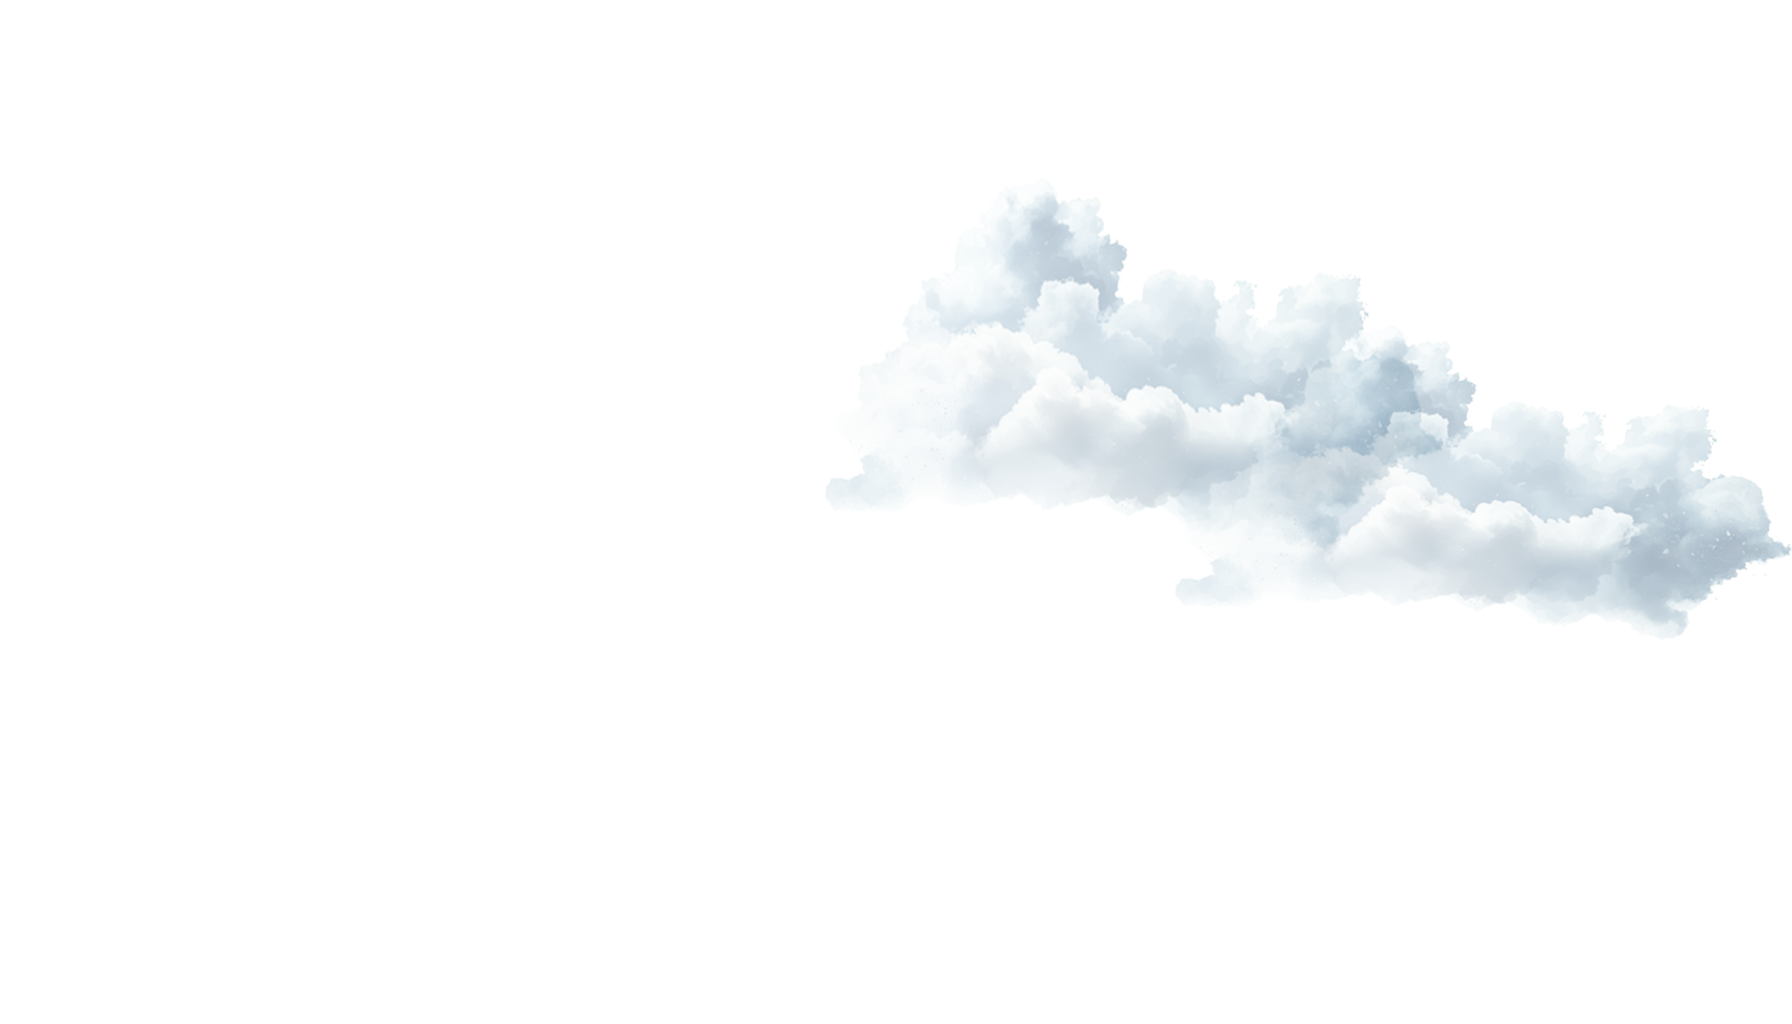
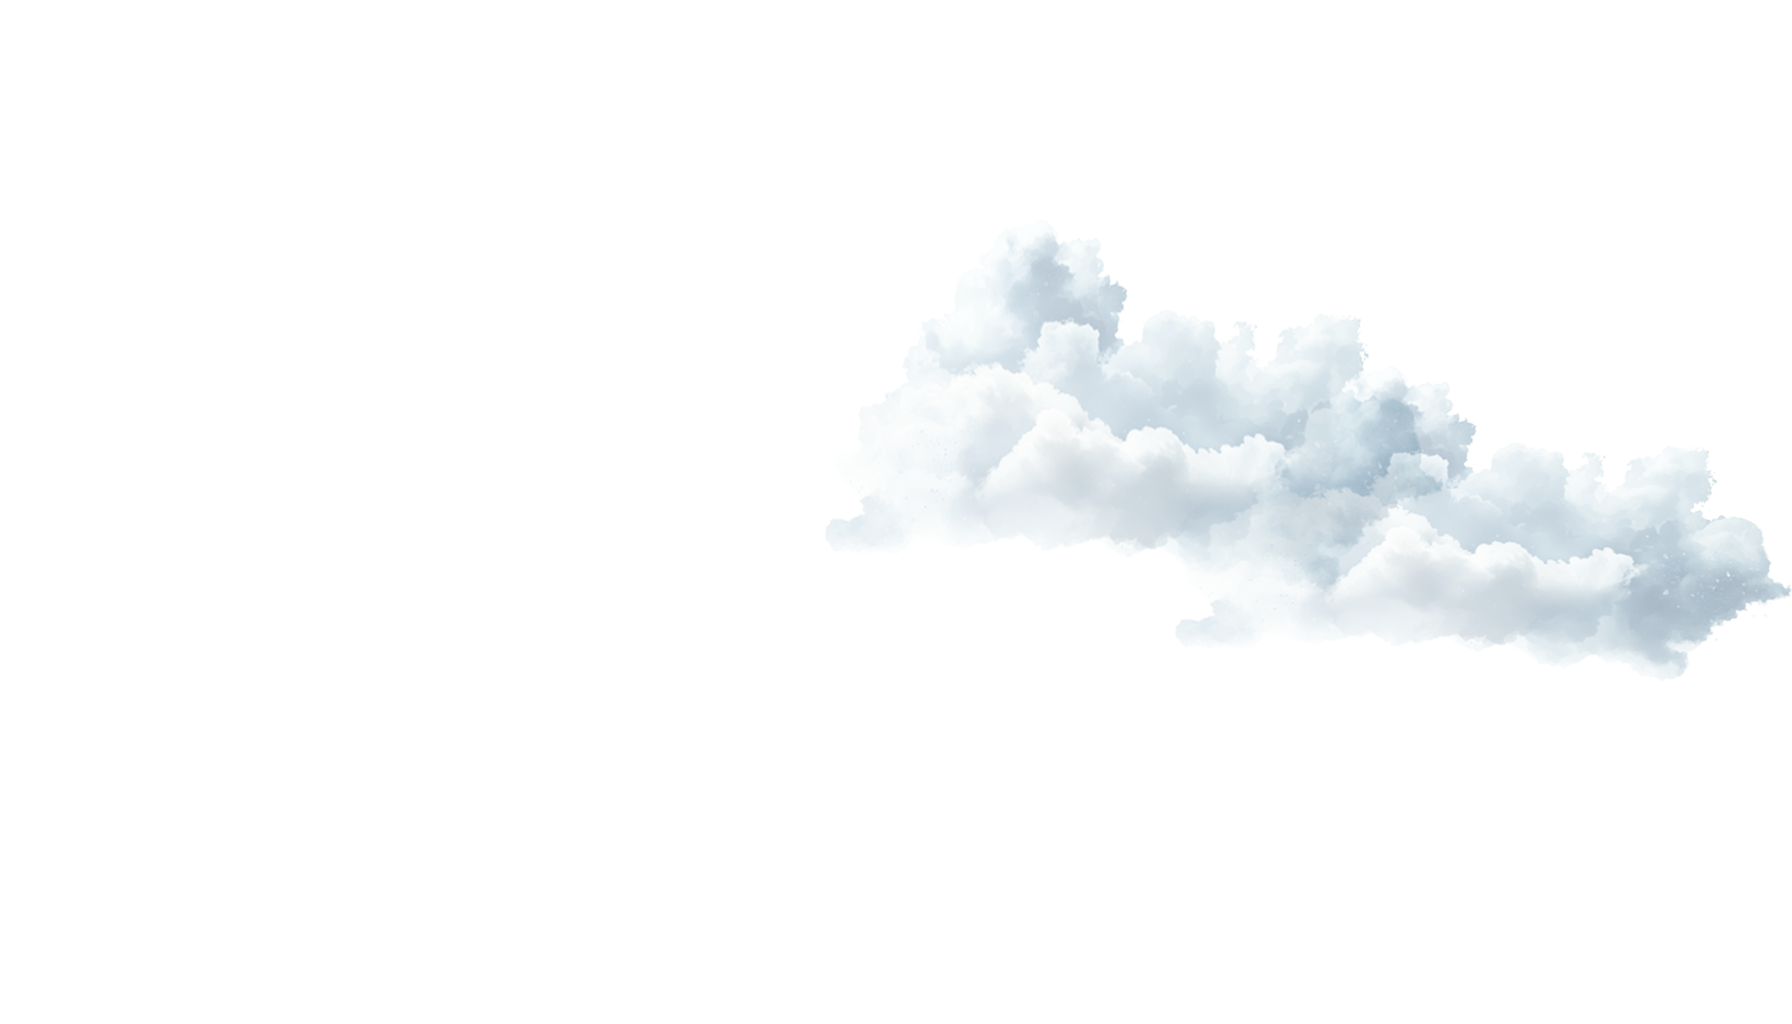
final adjustments on the dashboard and layer fixes

Changed region(s): [[0.5, 0.1875, 1.0, 0.6562], [0.6562, 0.5938, 0.6875, 0.625], [0.4688, 0.5, 0.5, 0.5312]]

diff --git a/src/components/Dashboard.jsx b/src/components/Dashboard.jsx
@@ -1,13 +1,14 @@
 import React from 'react';
-import { DeliveryIcon, WarehouseIcon, ComputerIcon, UsersIcon, MobileIcon } from '../assets/icons.jsx';
+import { DeliveryIcon, WarehouseIcon, ComputerIcon, UsersIcon, BoxIcon } from '../assets/icons.jsx';
 
 const Dashboard = () => {
   const cards = [
-    { title: 'Teslimat', description: '', url: 'http://onlineislemler.b2cargo.com:81/panel/home', icon: DeliveryIcon },
+    { title: 'Teslimat', description: '', url: 'http://onlineislemler.b2cargo.com:81/panel/home', icon: BoxIcon },
     { title: 'Depo', description: '', url: 'http://onlineislemler.b2cargo.com:81/panel/whouse', icon: WarehouseIcon },
+    { title: 'Personel', description: '', url: 'http://onlineislemler.b2cargo.com:90/staffhome', icon: UsersIcon },
+    { title: 'Kargo Dağıtım', description: '', url: 'https://mobil.b2cargo.com/login', icon: DeliveryIcon },
     { title: 'İnteraktif Depo', description: '', url: 'https://b2interactive.vercel.app/', icon: ComputerIcon },
-    { title: 'Personel', description: '', url: 'https://personel.b2cargo.com/', icon: UsersIcon },
-    { title: 'Mobil', description: '', url: 'https://mobil.b2cargo.com/login', icon: MobileIcon },
+
   ];
 
   return (
@@ -18,7 +19,7 @@ const Dashboard = () => {
           textShadow: '3px 3px 5px rgba(0, 0, 0, 0.7)',
         }}
       >
-        Hoşgeldiniz!
+        Hoşgeldiniz {/* Kullanıcı adı*/}!
         <br />
         <span
           className="text-white"
@@ -26,54 +27,29 @@ const Dashboard = () => {
           Hangi modülle devam etmek istersiniz?
         </span>
       </h1>
-      <div className="grid grid-cols-1 sm:grid-cols-2 lg:grid-cols-3 xl:grid-cols-5 gap-4 lg:gap-6 w-full max-w-7xl">
+      <div className="grid grid-cols-2 lg:grid-cols-5 gap-4 lg:gap-6 w-full max-w-7xl">
         {cards.map((card, index) => (
           <a
             key={index}
             href={card.url}
-            className="group p-4 sm:p-5 lg:p-6 bg-[#070F2A] hover:bg-opacity-60 bg-opacity-30 rounded-lg border-2 border-transparent hover:border-orange-600 transition-all duration-300 flex flex-col items-center justify-between transform hover:scale-105 hover:-translate-y-1 shadow-lg hover:shadow-xl"
+            className="group p-4 lg:p-6 bg-[#070F2A] hover:bg-opacity-60 bg-opacity-30 rounded-lg border-2 border-transparent hover:border-orange-600 transition-all duration-300 flex flex-col items-center justify-between transform hover:scale-105 hover:-translate-y-1 shadow-lg hover:shadow-xl"
             style={{ animationDelay: `${index * 100}ms` }}
           >
             <div className="flex flex-col items-center">
               <card.icon
-                className="w-10 h-10 sm:w-12 sm:h-12 group-hover:text-orange-500 text-white transition-colors duration-300"
+                className="w-12 h-12 group-hover:text-orange-500 text-white transition-colors duration-300"
                 style={{
                   filter: 'drop-shadow(3px 3px 5px rgba(0, 0, 0, 0.6))', 
                 }}
               />
               <h2
-                className="text-lg sm:text-xl font-semibold text-white mb-2 group-hover:text-orange-500 transition-colors duration-300 text-center"
+                className="text-lg font-semibold text-white mb-2 group-hover:text-orange-500 transition-colors duration-300 text-center"
                 style={{
                   textShadow: '3px 3px 5px rgba(0, 0, 0, 0.6)',
                 }}
               >
                 {card.title}
               </h2>
-            </div>
-            <div className="mt-2 flex items-center text-orange-500 opacity-0 group-hover:opacity-100 transition-all duration-300 transform translate-x-[-10px] group-hover:translate-x-0">
-              <span
-                className="mr-2 font-medium"
-                style={{
-                  textShadow: '2px 2px 4px rgba(0, 0, 0, 0.6)',
-                }}
-              >
-                Giriş
-              </span>
-              <svg
-                xmlns="http://www.w3.org/2000/svg"
-                className="h-5 w-5"
-                viewBox="0 0 20 20"
-                fill="currentColor"
-                style={{
-                  filter: 'drop-shadow(2px 2px 4px rgba(0, 0, 0, 0.6))', 
-                }}
-              >
-                <path
-                  fillRule="evenodd"
-                  d="M10.293 3.293a1 1 0 011.414 0l6 6a1 1 0 010 1.414l-6 6a1 1 0 01-1.414-1.414L14.586 11H3a1 1 0 110-2h11.586l-4.293-4.293a1 1 0 010-1.414z"
-                  clipRule="evenodd"
-                />
-              </svg>
             </div>
           </a>
         ))}

diff --git a/src/components/Sidebar.jsx b/src/components/Sidebar.jsx
@@ -15,7 +15,7 @@ const Sidebar = () => {
         {/* Continue Button */}
         <a 
           href="https://www.b2cargo.com/" 
-          className="h-14 w-full bg-[#070F2A] bg-opacity-50 hover:bg-opacity-90 hover:text-orange-600 border border-[#070F2A] hover:border-orange-600 text-white py-2 rounded-lg transition-colors duration-300 text-center shadow-md hover:shadow-lg flex items-center justify-center font-semibold"
+          className="h-14 w-full text-sm bg-[#070F2A] bg-opacity-50 hover:bg-opacity-90 hover:text-orange-600 border border-[#070F2A] hover:border-orange-600 text-white py-2 rounded-lg transition-colors duration-300 text-center shadow-md hover:shadow-lg flex items-center justify-center font-semibold"
         >
           <ArrowLeft className="w-5 h-5 mr-2" />
           Kurumsal Site
@@ -24,16 +24,16 @@ const Sidebar = () => {
         {/* Online Ödeme */}
         <a 
           href="https://odeme.b2cargo.com/" 
-          className="h-14 w-full bg-[#070F2A] bg-opacity-50 hover:bg-opacity-90 hover:text-orange-600 border border-[#070F2A] hover:border-orange-600 text-white py-2 rounded-lg transition-colors duration-300 text-center shadow-md hover:shadow-lg flex items-center justify-center font-semibold"
+          className="h-14 w-full text-sm bg-[#070F2A] bg-opacity-50 hover:bg-opacity-90 hover:text-orange-600 border border-[#070F2A] hover:border-orange-600 text-white py-2 rounded-lg transition-colors duration-300 text-center shadow-md hover:shadow-lg flex items-center justify-center font-semibold"
         >
           <CreditCard className="w-5 h-5 mr-2" />
           Online Ödeme
         </a>
         
         {/* Download App Section */}
-        <div className="w-full space-y-4">
-          <p className="text-white text-center font-bold text-lg mb-4" style={{textShadow: '2px 2px 4px rgba(0, 0, 0, 0.4)'}}>B2Cargo+</p>
-          <div className="flex flex-col sm:flex-row gap-4">
+        <div className="w-full space-y-1">
+          <p className="text-white text-center font-bold text-sm" style={{textShadow: '2px 2px 4px rgba(0, 0, 0, 0.4)'}}>B2Cargo+ mobil uygulamamızı indirin:</p>
+          <div className="flex flex-col xl:flex-row gap-4">
             <a 
               href="https://apps.apple.com/tr/app/b2cargo/id1564938924" 
               target="_blank" 
@@ -42,7 +42,7 @@ const Sidebar = () => {
             >
               <Apple className="w-8 h-8 mr-2 group-hover:text-blue-400 transition-colors duration-300" />
               <div className="flex flex-col items-start">
-                <span className="font-semibold group-hover:text-blue-400 transition-colors duration-300">App Store</span>
+                <span className="font-semibold group-hover:text-blue-400 transition-colors duration-300 text-sm">App Store</span>
               </div>
             </a>
             <a 
@@ -51,9 +51,9 @@ const Sidebar = () => {
               rel="noopener noreferrer" 
               className="flex-1 bg-[#070F2A] bg-opacity-60 hover:bg-opacity-90 border border-[#070F2A] hover:border-green-400 text-white py-3 px-4 rounded-lg transition-colors duration-300 text-center shadow-md hover:shadow-lg flex items-center justify-center group"
             >
-              <PlayCircle className="w-8 h-8 mr-2 group-hover:text-green-400 transition-colors duration-300" />
+              <PlayCircle className="w-9 h-9 mr-2 group-hover:text-green-400 transition-colors duration-300" />
               <div className="flex flex-col items-start">
-                <span className="font-semibold group-hover:text-green-400 transition-colors duration-300">Google Play</span>
+                <span className="font-semibold group-hover:text-green-400 transition-colors duration-300 text-sm">Google Play</span>
               </div>
             </a>
           </div>
@@ -64,7 +64,7 @@ const Sidebar = () => {
       <div className="mt-auto pt-4">
         <div className="flex flex-col items-center max-w-md mx-auto justify-between gap-4">
           <img src={coolPartner} alt="Cool Partner" className="w-28 h-28" />
-          <div className="text-white text-sm space-y-2 lg:mb-6">
+          <div className="text-white text-xs space-y-2 lg:mb-6">
           <div className="flex items-center justify-center gap-2 hover:text-orange-600 transition duration-300 ">
               <a href="https://www.b2cargo.com/iletisim">Şikayet, Öneri ve Yardım</a>
             </div>

diff --git a/src/assets/icons.jsx b/src/assets/icons.jsx
@@ -28,10 +28,11 @@ export const UsersIcon = (props) => (
   </svg>
 );
 
-export const MobileIcon = (props) => (
+export const BoxIcon = (props) => (
   <svg xmlns="http://www.w3.org/2000/svg" viewBox="0 0 24 24" fill="currentColor" {...props}>
-    <path d="M10.5 18.75a.75.75 0 000 1.5h3a.75.75 0 000-1.5h-3z" />
-    <path fillRule="evenodd" d="M8.625.75A3.375 3.375 0 005.25 4.125v15.75a3.375 3.375 0 003.375 3.375h6.75a3.375 3.375 0 003.375-3.375V4.125A3.375 3.375 0 0015.375.75h-6.75zM7.5 4.125C7.5 3.504 8.004 3 8.625 3H9.75v.375c0 .621.504 1.125 1.125 1.125h2.25c.621 0 1.125-.504 1.125-1.125V3h1.125c.621 0 1.125.504 1.125 1.125v15.75c0 .621-.504 1.125-1.125 1.125h-6.75A1.125 1.125 0 017.5 19.875V4.125z" clipRule="evenodd" />
+    <path d="M17.5777 4.43152L15.5777 3.38197C13.8221 2.46066 12.9443 2 12 2C11.0557 2 10.1779 2.46066 8.42229 3.38197L8.10057 3.5508L17.0236 8.64967L21.0403 6.64132C20.3941 5.90949 19.3515 5.36234 17.5777 4.43152Z" />
+    <path d="M21.7484 7.96434L17.75 9.96353V13C17.75 13.4142 17.4142 13.75 17 13.75C16.5858 13.75 16.25 13.4142 16.25 13V10.7135L12.75 12.4635V21.904C13.4679 21.7252 14.2848 21.2965 15.5777 20.618L17.5777 19.5685C19.7294 18.4393 20.8052 17.8748 21.4026 16.8603C22 15.8458 22 14.5833 22 12.0585V11.9415C22 10.0489 22 8.86557 21.7484 7.96434Z" />
+    <path d="M11.25 21.904V12.4635L2.25164 7.96434C2 8.86557 2 10.0489 2 11.9415V12.0585C2 14.5833 2 15.8458 2.5974 16.8603C3.19479 17.8748 4.27062 18.4393 6.42228 19.5685L8.42229 20.618C9.71524 21.2965 10.5321 21.7252 11.25 21.904Z" />
+    <path d="M2.95969 6.64132L12 11.1615L15.4112 9.4559L6.52456 4.37785L6.42229 4.43152C4.64855 5.36234 3.6059 5.90949 2.95969 6.64132Z" />
   </svg>
 );
-

diff --git a/src/components/ParallaxScene.jsx b/src/components/ParallaxScene.jsx
@@ -28,10 +28,10 @@ const ParallaxScene = () => {
       <div className="relative w-full h-full bg-cover bg-center bg-no-repeat z-[3]" 
            style={{ backgroundImage: `url(${mountain})` }}
            data-depth="0.3" />
-       <div className="absolute scale-[0.60] w-full h-full bg-no-repeat bg-top top-0 z-[2]"
+      <div className="relative w-full h-full bg-cover bg-center bg-no-repeat z-[2]" 
            style={{ backgroundImage: `url(${cloud_1})` }}
            data-depth="0.45" />
-      <div className="absolute scale-100 w-full h-full bg-no-repeat top-0 z-[2] hidden lg:block"
+      <div className="relative w-full h-full bg-cover bg-center bg-no-repeat z-[2]" 
            style={{ backgroundImage: `url(${cloud_2})` }}
            data-depth="0.4" />  
 

diff --git a/src/index.css b/src/index.css
@@ -15,3 +15,12 @@ body, html {
     position: relative;
     overflow-x: hidden;
 }
+
+@font-face {
+    font-family: 'Ubuntu';
+    src: url('../fonts/ubuntu-regular.ttf') format('truetype');
+}
+
+body {
+    font-family: 'Ubuntu', sans-serif;
+}
